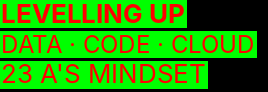
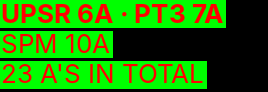
Add real career dates and projects
- AI Engineer 2023-2025, AI Cloud Solution Architect at Huawei Malaysia since 2025
- Projects: A2 migration (H200 to Huawei NPU), AI prototyping, AIOps & MLOps
- Career stones, project cards, CHEAH-GPT answers, report card, profile page and console updated

Claude-Session: https://claude.ai/code/session_01669E1ZaT4BYNcrdbPGyUkR

diff --git a/sources/index.html b/sources/index.html
@@ -3,23 +3,23 @@
 <head>
     <meta charset="UTF-8">
     <meta name="viewport" content="width=device-width, initial-scale=1.0">
-    <title>CHEAH CHERN EU · Cloud & AI Solution Architect</title>
+    <title>CHEAH CHERN EU · AI Cloud Solution Architect</title>
 
-    <meta name="description" content="CHEAH CHERN EU — Cloud &amp; AI Solution Architect at Huawei Malaysia. Drive through an interactive 3D world to explore my journey from straight A's to AI engineering and cloud architecture.">
+    <meta name="description" content="CHEAH CHERN EU — AI Cloud Solution Architect at Huawei Malaysia. Drive through an interactive 3D world to explore my journey from straight A's to AI engineering and cloud architecture.">
 
     <meta itemprop="name" content="CHEAH CHERN EU">
-    <meta itemprop="description" content="CHEAH CHERN EU — Cloud &amp; AI Solution Architect at Huawei Malaysia. Drive through an interactive 3D world to explore my journey from straight A's to AI engineering and cloud architecture.">
+    <meta itemprop="description" content="CHEAH CHERN EU — AI Cloud Solution Architect at Huawei Malaysia. Drive through an interactive 3D world to explore my journey from straight A's to AI engineering and cloud architecture.">
     <meta itemprop="image" content="./social/share-image.png?cb=cheah">
 
     <meta name="twitter:card" content="summary_large_image">
     <meta name="twitter:title" content="CHEAH CHERN EU">
-    <meta name="twitter:description" content="CHEAH CHERN EU — Cloud &amp; AI Solution Architect at Huawei Malaysia. Drive through an interactive 3D world to explore my journey from straight A's to AI engineering and cloud architecture.">
+    <meta name="twitter:description" content="CHEAH CHERN EU — AI Cloud Solution Architect at Huawei Malaysia. Drive through an interactive 3D world to explore my journey from straight A's to AI engineering and cloud architecture.">
     <meta name="twitter:image" content="./social/share-image.png?cb=cheah">
 
     <meta property="og:site_name" content="CHEAH CHERN EU">
     <meta property="og:type" content="website">
     <meta property="og:title" content="CHEAH CHERN EU">
-    <meta property="og:description" content="CHEAH CHERN EU — Cloud &amp; AI Solution Architect at Huawei Malaysia. Drive through an interactive 3D world to explore my journey from straight A's to AI engineering and cloud architecture.">
+    <meta property="og:description" content="CHEAH CHERN EU — AI Cloud Solution Architect at Huawei Malaysia. Drive through an interactive 3D world to explore my journey from straight A's to AI engineering and cloud architecture.">
     <meta property="og:image" content="./social/share-image.png?cb=cheah">
 
     <link rel="preconnect" href="https://fonts.googleapis.com">
@@ -231,7 +231,7 @@
                             <div class="content-inner">
                                 <div class="title">CHEAH CHERN EU's Home</div>
                                 <p class="text">Selamat datang! Welcome!</p>
-                                <p class="text">I'm <strong>CHEAH CHERN EU</strong>, a <strong>Cloud &amp; AI Solution Architect</strong> at <strong>Huawei Malaysia</strong>. Before that I was an <strong>AI Engineer</strong>, turning models into real products.</p>
+                                <p class="text">I'm <strong>CHEAH CHERN EU</strong>, a <strong>AI Cloud Solution Architect</strong> at <strong>Huawei Malaysia</strong>. Since 2025 I've been migrating AI workloads from NVIDIA H200 GPUs to Huawei NPUs. Before that I spent 2023–2025 as an <strong>AI Engineer</strong> on AI prototyping and AIOps / MLOps.</p>
                                 <p class="text">This world is my portfolio. Drive around to discover my career stones, projects and lab, ask my in-world AI <strong>CHEAH-GPT</strong> anything (press <strong>C</strong>), and look up at night to watch the <strong>Neural Sky</strong> learn.</p>
                                 <p class="text">In a hurry? <a href="#" class="js-open-report-card">Open my report card</a> · <a href="https://my.linkedin.com/in/cheah-chern-eu-48b3ba132" target="_blank" rel="noreferrer">LinkedIn</a> · <a href="mailto:cheah.c.eu@gmail.com">cheah.c.eu@gmail.com</a> · <a href="tel:+60189456286">018-945 6286</a> · <a href="./cv.html" target="_blank">Quick 2D profile</a></p>
                             </div>
@@ -849,11 +849,11 @@
                         <div class="items">
                             <div class="item">
                                 <div class="title-container"><div class="line left"></div><div class="title">Then</div><div class="line right"></div></div>
-                                <p><strong>AI Engineer</strong>: building and shipping machine-learning models.</p>
+                                <p><strong>AI Engineer</strong> · 2023 – 2025<br />AI prototyping and AIOps / MLOps.</p>
                             </div>
                             <div class="item">
                                 <div class="title-container"><div class="line left"></div><div class="title">Now</div><div class="line right"></div></div>
-                                <p><strong>Cloud &amp; AI Solution Architect</strong> at Huawei Malaysia.</p>
+                                <p><strong>AI Cloud Solution Architect</strong> at Huawei Malaysia · since 2025<br />A2 migration: H200 → Huawei NPU.</p>
                                 <div class="button-container">
                                     <a href="https://my.linkedin.com/in/cheah-chern-eu-48b3ba132" target="_blank" rel="noreferrer" class="button">LinkedIn</a>
                                 </div>

diff --git a/sources/Game/Extras/CheahGpt.js b/sources/Game/Extras/CheahGpt.js
@@ -29,10 +29,14 @@ const blocks = {
         <div class="cg-total"><span>Total</span><b data-count="${profile.totalAs}">0</b><span>A's</span></div>`,
     career: () => `
         <ol class="cg-timeline">
-            <li class="is-now"><small>Now</small><b>${escape(profile.role)}</b><span>${escape(profile.company)}</span></li>
-            <li><small>Before</small><b>${escape(profile.previousRole)}</b><span>Models from notebook to production</span></li>
+            <li class="is-now"><small>${profile.roleSince} → now</small><b>${escape(profile.role)}</b><span>${escape(profile.company)} · A2 migration, H200 → Huawei NPU</span></li>
+            <li><small>${escape(profile.previousRoleYears)}</small><b>${escape(profile.previousRole)}</b><span>AI prototyping · AIOps &amp; MLOps</span></li>
             <li><small>2012 → 2017</small><b>UPSR · PT3 · SPM</b><span>${profile.totalAs} A's in total</span></li>
         </ol>`,
+    projects: () => `
+        <div class="cg-contact">
+            ${profile.projects.map(p => `<div class="cg-contact-row cg-project"><span><b>${escape(p.title)}</b><small>${escape(p.role)}${p.at ? ' · ' + escape(p.at) : ''} · ${escape(p.year)}</small></span></div>`).join('')}
+        </div>`,
     stack: () => `
         <div class="cg-tags">${[ 'Huawei Cloud', 'ModelArts', 'Python', 'PyTorch', 'Kubernetes', 'LLMs & RAG', 'Solution design' ].map(t => `<span>${t}</span>`).join('')}</div>`,
 }
@@ -45,10 +49,13 @@ const intents = [
         text: () => `${profile.name} is a ${profile.role} at ${profile.company}. Born in ${profile.born} (${age()} this year), started as an ${profile.previousRole}, and now designs the cloud platforms that let AI run at scale.`,
         block: 'career' },
     { id: 'work', keys: [ 'job', 'work', 'huawei', 'architect', 'current', 'role', 'position', 'career', 'experience' ],
-        text: () => `Today: ${profile.role} at ${profile.company}, turning business problems into secure, scalable and cost-aware cloud and AI architectures.`,
+        text: () => `Since ${profile.roleSince}: ${profile.role} at ${profile.company}. Before that, ${profile.previousRole} from ${profile.previousRoleYears}.`,
         block: 'career' },
+    { id: 'projects', keys: [ 'project', 'projects', 'migration', 'npu', 'h200', 'a2', 'gpu', 'ascend', 'portfolio', 'built', 'prototype', 'prototyping', 'mlops', 'aiops' ],
+        text: () => `Three highlights. At Huawei, the A2 migration moved AI workloads from NVIDIA H200 GPUs to Huawei NPUs. As an AI Engineer (${profile.previousRoleYears}): AI prototyping, and AIOps / MLOps to keep models running in production.`,
+        block: 'projects' },
     { id: 'ai', keys: [ 'ai', 'engineer', 'machine', 'learning', 'ml', 'model', 'llm', 'genai', 'generative', 'deep', 'rag' ],
-        text: () => `Before architecture came engineering. As an AI Engineer, ${profile.shortName} trained, evaluated and deployed models, which is why the architectures are built for real AI workloads.`,
+        text: () => `From ${profile.previousRoleYears}, ${profile.shortName} worked as an AI Engineer on AI prototyping and AIOps / MLOps, which is why the architectures are built for real AI workloads.`,
         block: 'stack' },
     { id: 'stack', keys: [ 'skill', 'stack', 'tech', 'tools', 'python', 'pytorch', 'cloud', 'kubernetes', 'modelarts' ],
         text: () => `The toolbox, in short:`, block: 'stack' },
@@ -69,7 +76,7 @@ const intents = [
 const prompts = [
     { label: 'Career', text: 'What does Chern Eu do?' },
     { label: 'Grades', text: 'Show me the grades' },
-    { label: 'AI', text: 'Tell me about the AI experience' },
+    { label: 'Projects', text: 'What projects has Chern Eu done?' },
     { label: 'Contact', text: 'How can I get in touch?' },
     { label: 'Secrets', text: 'Any secrets in this world?' },
 ]

diff --git a/static/cv.html b/static/cv.html
@@ -4,7 +4,7 @@
 <meta charset="utf-8">
 <meta name="viewport" content="width=device-width, initial-scale=1">
 <title>CHEAH CHERN EU · Profile</title>
-<meta name="description" content="CHEAH CHERN EU — Cloud & AI Solution Architect at Huawei Malaysia, former AI Engineer.">
+<meta name="description" content="CHEAH CHERN EU — AI Cloud Solution Architect at Huawei Malaysia, former AI Engineer.">
 <link rel="icon" href="./favicons/favicon.svg">
 <style>
 :root{--bg:#0b0c0e;--card:#15171b;--text:#eef0f3;--muted:#9aa1ab;--a:#1f2de6;--b:#6fa8ff}
@@ -27,7 +27,7 @@ footer{color:var(--muted);font-size:.8rem;margin-top:32px}
 <body>
 <main>
   <h1>CHEAH CHERN EU</h1>
-  <p class="role">Cloud &amp; AI Solution Architect · Huawei Malaysia</p>
+  <p class="role">AI Cloud Solution Architect · Huawei Malaysia</p>
   <a class="btn" href="./">▶ Enter the 3D world</a>
   <a class="btn alt" href="https://my.linkedin.com/in/cheah-chern-eu-48b3ba132" target="_blank" rel="noreferrer">LinkedIn</a>
   <a class="btn alt" href="mailto:cheah.c.eu@gmail.com">cheah.c.eu@gmail.com</a>
@@ -36,14 +36,14 @@ footer{color:var(--muted);font-size:.8rem;margin-top:32px}
 
   <section class="card">
     <h2>About</h2>
-    <p>Born in 2000 in Malaysia. Started out as an <strong>AI Engineer</strong>, building and shipping machine-learning models, and now works as a <strong>Cloud &amp; AI Solution Architect at Huawei Malaysia</strong>, designing the platforms that help organisations adopt AI at scale.</p>
+    <p>Born in 2000 in Malaysia. Worked as an <strong>AI Engineer</strong> from 2023 to 2025 on AI prototyping and AIOps / MLOps. Since 2025, an <strong>AI Cloud Solution Architect at Huawei Malaysia</strong>, moving AI workloads from NVIDIA H200 GPUs to Huawei NPUs.</p>
   </section>
 
   <section class="card">
     <h2>Career</h2>
     <div class="timeline">
-      <div><strong>Cloud &amp; AI Solution Architect</strong> · Huawei Malaysia · <em>now</em></div>
-      <div><strong>AI Engineer</strong></div>
+      <div><strong>AI Cloud Solution Architect</strong> · Huawei Malaysia · <em>2025 – now</em><br>A2 migration: NVIDIA H200 → Huawei NPU</div>
+      <div><strong>AI Engineer</strong> · <em>2023 – 2025</em><br>AI prototyping · AIOps &amp; MLOps</div>
     </div>
   </section>
 

diff --git a/sources/data/projects.js b/sources/data/projects.js
@@ -3,40 +3,41 @@ import profile from './profile.js'
 // Images are generated by scripts/generate-identity.py (static/projects/images/cheah-*.png)
 export default [
     {
-        title: 'Huawei Malaysia',
-        titleSmall: [ 'Huawei', 'Malaysia' ],
+        title: 'A2 Migration',
+        titleSmall: [ 'A2', 'Migration' ],
         url: profile.linkedin,
         attributes:
         {
-            role: 'Cloud & AI Solution Architect',
-            at: 'Huawei Malaysia'
+            role: 'AI Cloud Solution Architect',
+            at: 'Huawei Malaysia',
+            with: [ 'H200 → Huawei NPU' ]
         },
         distinctions: [],
-        images: [ 'cheah-huawei-1.png', 'cheah-huawei-2.png', 'cheah-huawei-3.png' ]
+        images: [ 'cheah-a2-1.png', 'cheah-a2-2.png', 'cheah-a2-3.png' ]
     },
     {
-        title: 'AI Engineering',
-        titleSmall: [ 'AI', 'Engineering' ],
+        title: 'AI Prototyping',
+        titleSmall: [ 'AI', 'Prototyping' ],
         url: profile.linkedin,
         attributes:
         {
             role: 'AI Engineer',
-            with: [ 'Machine learning', 'Generative AI' ]
+            with: '2023 – 2025'
         },
         distinctions: [],
-        images: [ 'cheah-ai-1.png', 'cheah-ai-2.png', 'cheah-ai-3.png' ]
+        images: [ 'cheah-proto-1.png', 'cheah-proto-2.png', 'cheah-proto-3.png' ]
     },
     {
-        title: 'Cloud × AI',
-        titleSmall: [ 'Cloud', '× AI' ],
+        title: 'AIOps & MLOps',
+        titleSmall: [ 'AIOps &', 'MLOps' ],
         url: profile.linkedin,
         attributes:
         {
-            role: [ 'Solution design', 'Architecture' ],
-            with: 'Enterprise customers'
+            role: 'AI Engineer',
+            with: '2023 – 2025'
         },
         distinctions: [],
-        images: [ 'cheah-cloud-1.png', 'cheah-cloud-2.png', 'cheah-cloud-3.png' ]
+        images: [ 'cheah-mlops-1.png', 'cheah-mlops-2.png', 'cheah-mlops-3.png' ]
     },
     {
         title: 'Straight A\'s',

diff --git a/sources/data/profile.js b/sources/data/profile.js
@@ -4,9 +4,11 @@ export default {
     name: 'CHEAH CHERN EU',
     shortName: 'Chern Eu',
     born: 2000,
-    role: 'Cloud & AI Solution Architect',
+    role: 'AI Cloud Solution Architect',
+    roleSince: 2025,
     company: 'Huawei Malaysia',
     previousRole: 'AI Engineer',
+    previousRoleYears: '2023 – 2025',
     country: 'Malaysia',
     linkedin: 'https://my.linkedin.com/in/cheah-chern-eu-48b3ba132',
     email: 'cheah.c.eu@gmail.com',
@@ -23,7 +25,13 @@ export default {
     totalAs: 23,
     career:
     [
-        { title: 'AI Engineer', text: 'Built and shipped machine-learning models, taking them from notebooks to production.' },
-        { title: 'Cloud & AI Solution Architect @ Huawei Malaysia', text: 'Designs cloud and AI architectures that help organisations adopt AI at scale.' },
+        { title: 'AI Engineer', years: '2023 – 2025', text: 'AI prototyping and AIOps / MLOps: from quick prototypes to models running reliably in production.' },
+        { title: 'AI Cloud Solution Architect @ Huawei Malaysia', years: '2025 – now', text: 'Architected the A2 migration, moving AI workloads from NVIDIA H200 GPUs to Huawei NPUs.' },
+    ],
+    projects:
+    [
+        { title: 'A2 Migration: H200 → Huawei NPU', role: 'AI Cloud Solution Architect', at: 'Huawei Malaysia', year: '2025' },
+        { title: 'AI Prototyping', role: 'AI Engineer', year: '2023 – 2025' },
+        { title: 'AIOps & MLOps', role: 'AI Engineer', year: '2023 – 2025' },
     ]
 }

diff --git a/sources/data/consoleLog.js b/sources/data/consoleLog.js
@@ -10,7 +10,8 @@ const text = `
         C H E R N   E U  ·  P O R T F O L I O
 
 ╔═ Hello, fellow developer ═════╗
-║ I'm CHEAH CHERN EU — Cloud & AI Solution Architect at Huawei Malaysia, former AI Engineer.
+║ I'm CHEAH CHERN EU — AI Cloud Solution Architect at Huawei Malaysia (since 2025), AI Engineer 2023–2025.
+║ Projects: A2 migration (H200 → Huawei NPU) · AI prototyping · AIOps & MLOps.
 ║ Born in 2000 · UPSR 6A · PT3 7A · SPM 10A (23 A's in total).
 ╚═══════════════════════════════╝
 

diff --git a/sources/Game/World/Areas/CareerArea.js b/sources/Game/World/Areas/CareerArea.js
@@ -153,9 +153,9 @@ export class CareerArea extends Area
         this.year = {}
         this.year.group = this.references.items.get('year')[0]
         this.year.originZ = this.year.group.position.z
-        this.year.size = 14
+        this.year.size = 12
         this.year.offsetTarget = 0
-        this.year.start = 2012
+        this.year.start = 2014
         this.year.current = this.year.start
 
         //    Digit indexes

diff --git a/scripts/generate-identity.py b/scripts/generate-identity.py
@@ -18,13 +18,13 @@ def font(weight, size):
 # ---------------------------------------------------------------- Career stones
 # Shader reads: R = text, G = label box. Same canvas sizes as the original meshes expect.
 CAREER = {
-    # Slot (fixed position in the 3D world)   size        lines            # years shown with year.start = 2012
-    'careerHetic':           ((316, 60), ['SCHOOL YEARS', 'UPSR 6A · PT3 7A']),            # 2012 → 2016
-    'careerUzik':            ((168, 60), ['SPM', '10 A\'S']),                            # 2017 → 2019
-    'careerImmersiveGarden': ((340, 60), ['AI ENGINEER', 'MODELS TO PRODUCTION']),       # 2020 → 2022
-    'careerOnlineTeacher':   ((332, 92), ['HUAWEI MALAYSIA', 'CLOUD & AI', 'SOLUTION ARCHITECT']),  # 2023 → now
-    'careerFreelancer':      ((240, 60), ['AI × CLOUD', 'ALWAYS LEARNING']),             # 2015 → now
-    'careerIRLTeacher':      ((268, 92), ['LEVELLING UP', 'DATA · CODE · CLOUD', '23 A\'S MINDSET']),  # 2017 → 2025
+    # Slot (fixed position in the 3D world)   size        lines            # years shown with year.start = 2014
+    'careerHetic':           ((316, 60), ['SCHOOL YEARS', 'PT3 7A · SPM 10A']),                  # 2014 → 2018
+    'careerUzik':            ((168, 60), ['LEARNING', 'AI & CLOUD']),                            # 2019 → 2021
+    'careerImmersiveGarden': ((340, 60), ['AI ENGINEER · 2023–25', 'PROTOTYPING · MLOPS']),      # 2022 → 2024
+    'careerOnlineTeacher':   ((332, 92), ['HUAWEI MALAYSIA', 'AI CLOUD ARCHITECT', 'SINCE 2025']),  # 2025 → now
+    'careerFreelancer':      ((240, 60), ['AI × CLOUD', 'ALWAYS LEARNING']),                     # 2017 → now
+    'careerIRLTeacher':      ((268, 92), ['UPSR 6A · PT3 7A', 'SPM 10A', '23 A\'S IN TOTAL']),
 }
 
 def career(name, size, lines):
@@ -130,9 +130,9 @@ def card(path, w, h, pal, seed, motif, kicker, title, sub, big=None):
 
 P = os.path.join(ROOT, 'projects', 'images')
 projects = [
-    ('cheah-huawei', 'huawei', 'grid',    [('NOW', 'Huawei Malaysia', 'Cloud & AI Solution Architect'), ('ROLE', 'Design.\nArchitect. Deliver.', 'From customer problem to cloud blueprint'), ('FOCUS', 'Enterprise\nCloud', 'Scalable, secure, cost-aware architectures')]),
-    ('cheah-ai',     'ai',     'network', [('BEFORE', 'AI Engineer', 'Taking models from notebook to production'), ('CRAFT', 'Data → Model\n→ Product', 'Training, evaluation, deployment'), ('LOVE', 'Generative AI', 'LLMs, RAG and intelligent assistants')]),
-    ('cheah-cloud',  'cloud',  'clouds',  [('BRIDGE', 'Cloud × AI', 'Where infrastructure meets intelligence'), ('BUILD', 'AI on Cloud', 'Platforms that let AI scale'), ('MINDSET', 'Architect\nThinking', 'Trade-offs, reliability, simplicity')]),
+    ('cheah-a2',     'huawei', 'grid',    [('HUAWEI · 2025', 'A2 Migration', 'NVIDIA H200 → Huawei NPU'), ('ROLE', 'AI Cloud\nSolution Architect', 'Migration architecture & delivery'), ('OUTCOME', 'GPU → NPU', 'AI workloads moved onto Huawei compute')]),
+    ('cheah-proto',  'ai',     'network', [('2023 – 2025', 'AI Prototyping', 'From idea to working demo, fast'), ('ROLE', 'AI Engineer', 'Build, test, iterate'), ('CRAFT', 'Idea → Model\n→ Demo', 'Prototypes that prove value early')]),
+    ('cheah-mlops',  'cloud',  'clouds',  [('2023 – 2025', 'AIOps & MLOps', 'Models that keep running in production'), ('ROLE', 'AI Engineer', 'Pipelines, deployment, monitoring'), ('LOOP', 'Train → Deploy\n→ Monitor', 'Automated ML lifecycle')]),
     ('cheah-school', 'school', 'stars',   [('UPSR', 'UPSR', '6 A\'s', '6A'), ('PT3', 'PT3', '7 A\'s', '7A'), ('SPM', 'SPM', '10 A\'s — straight A student', '10A')]),
 ]
 for i, (key, pal, motif, slides) in enumerate(projects):
@@ -154,7 +154,7 @@ for i, (key, pal, motif, title, sub) in enumerate(lab):
     card(os.path.join(L, f'{key}.png'), 960, 540, PALETTES[pal], 100 + i, motif, 'LAB', title, sub)
     card(os.path.join(L, f'{key}-mini.png'), 240, 136, PALETTES[pal], 100 + i, motif, None, title, None)
 
-card(os.path.join(ROOT, 'social', 'share-image.png'), 1200, 630, PALETTES['ai'], 7, 'network', 'PORTFOLIO', 'CHEAH CHERN EU', 'Cloud & AI Solution Architect · Huawei Malaysia')
+card(os.path.join(ROOT, 'social', 'share-image.png'), 1200, 630, PALETTES['ai'], 7, 'network', 'PORTFOLIO', 'CHEAH CHERN EU', 'AI Cloud Solution Architect · Huawei Malaysia')
 print('done')
 
 # ---------------------------------------------------------------- Time machine screens (140x124 pixel-art)

diff --git a/readme.md b/readme.md
@@ -1,6 +1,6 @@
 # CHEAH CHERN EU · 3D Portfolio
 
-Interactive 3D portfolio of **CHEAH CHERN EU**, Cloud & AI Solution Architect at Huawei Malaysia.
+Interactive 3D portfolio of **CHEAH CHERN EU**, AI Cloud Solution Architect at Huawei Malaysia.
 World engine based on [Bruno Simon's folio-2025](https://github.com/brunosimon/folio-2025) (MIT).
 
 ## What's custom
